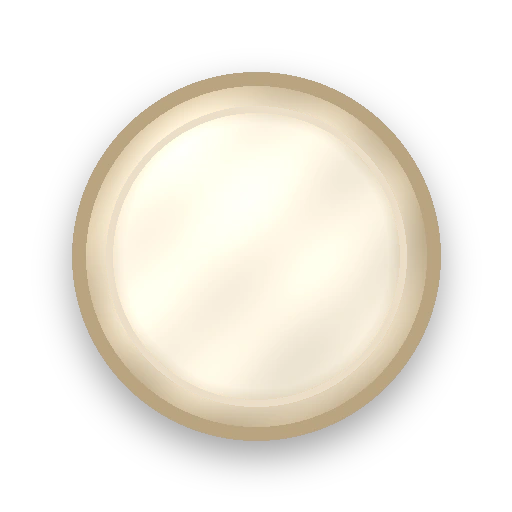
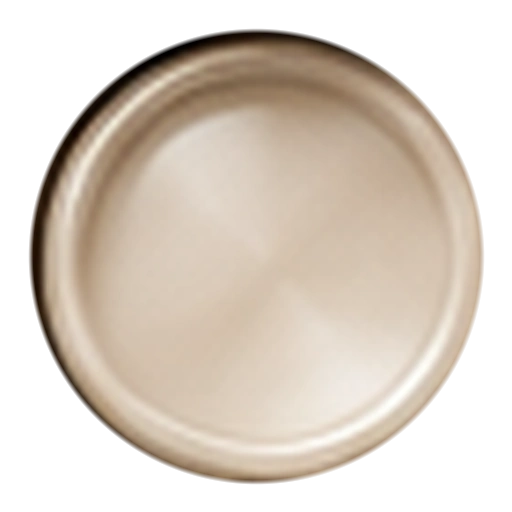
Add files via upload

diff --git a/app/src/main/assets/cosmetics/README.md b/app/src/main/assets/cosmetics/README.md
@@ -1,31 +1,26 @@
 # Cosmetic artwork folder
 
-The renderer looks for optional artwork under this folder. If an expected file is missing, the game falls back to the procedural fallback drawing, so artists can replace pieces gradually.
+The renderer looks for optional artwork under this folder. Missing files fall back to the procedural renderer.
 
-## Board theme layers
+## Board artwork
+A board theme can now provide either:
 
-A board theme may provide these transparent or opaque WebP/PNG layers:
+- `boards/<theme>/board_base.webp` — a complete, empty, production-rendered board aligned to `BoardGeometry`; or
+- the older layered approach:
+  - `frame.webp`
+  - `field.webp`
+  - `points.webp`
+  - `bar.webp`
 
-- `boards/<theme>/frame.webp` — full outer-board rectangle, including trays if desired.
-- `boards/<theme>/field.webp` — playing-field rectangle only.
-- `boards/<theme>/points.webp` — transparent overlay for all 24 points/details.
-- `boards/<theme>/bar.webp` — centre bar artwork.
-
-The paths are declared in `CosmeticCatalog`/`BoardTheme`.
+`Classic Walnut` in v0.8 is the first theme using `board_base.webp`. Checkers, dice, highlights and animation remain dynamic above that artwork.
 
 ## Checker artwork
-
 - `checkers/<theme>/light.webp`
 - `checkers/<theme>/dark.webp`
 
-Use a square transparent image. The game scales it to the physical checker radius and adds the movement/selection effects separately.
+Use a square transparent image. Selection/ghost/shadow/movement effects are separate.
 
 ## Dice artwork
-
 - `dice/<theme>/die_1.webp` through `die_6.webp`
 
-Use square transparent images. Rotation and dice-roll motion are applied by the renderer.
-
-This separation is intentional: a visual set can be changed without changing the rules engine, AI, or turn logic.
-
-- `checkers/obsidian_gold/light.webp` + `dark.webp` are optional future production artwork; v0.7 has a procedural fallback with gold detailing.
+Use square transparent images. Rotation and dice-roll motion are handled by the renderer.
